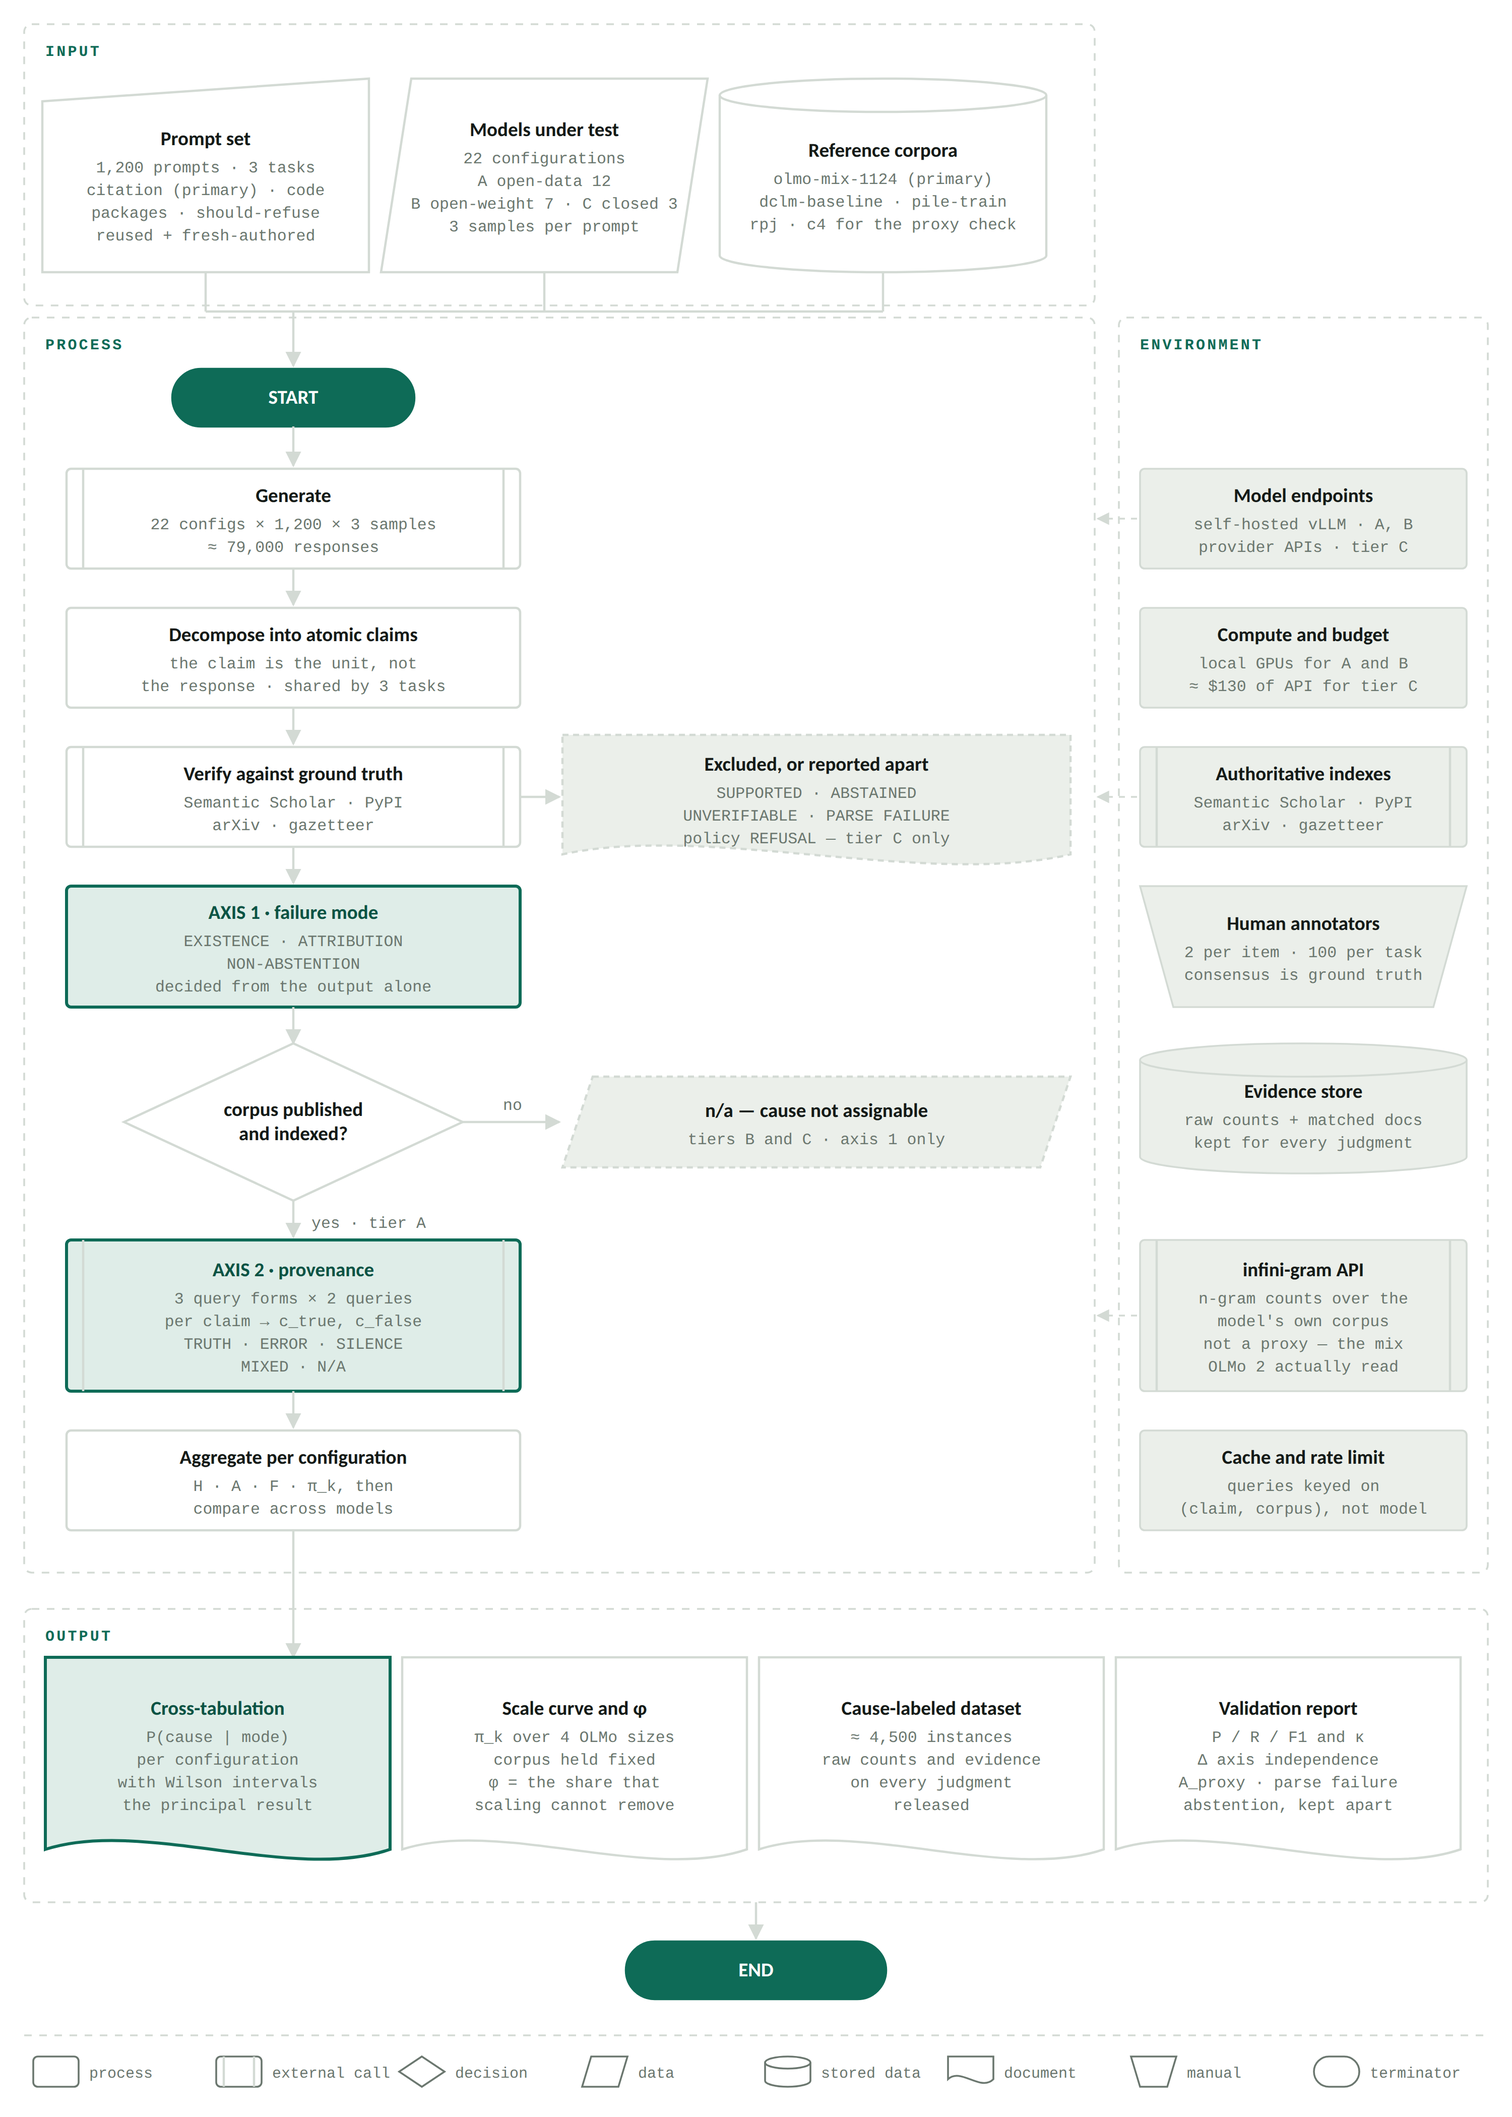
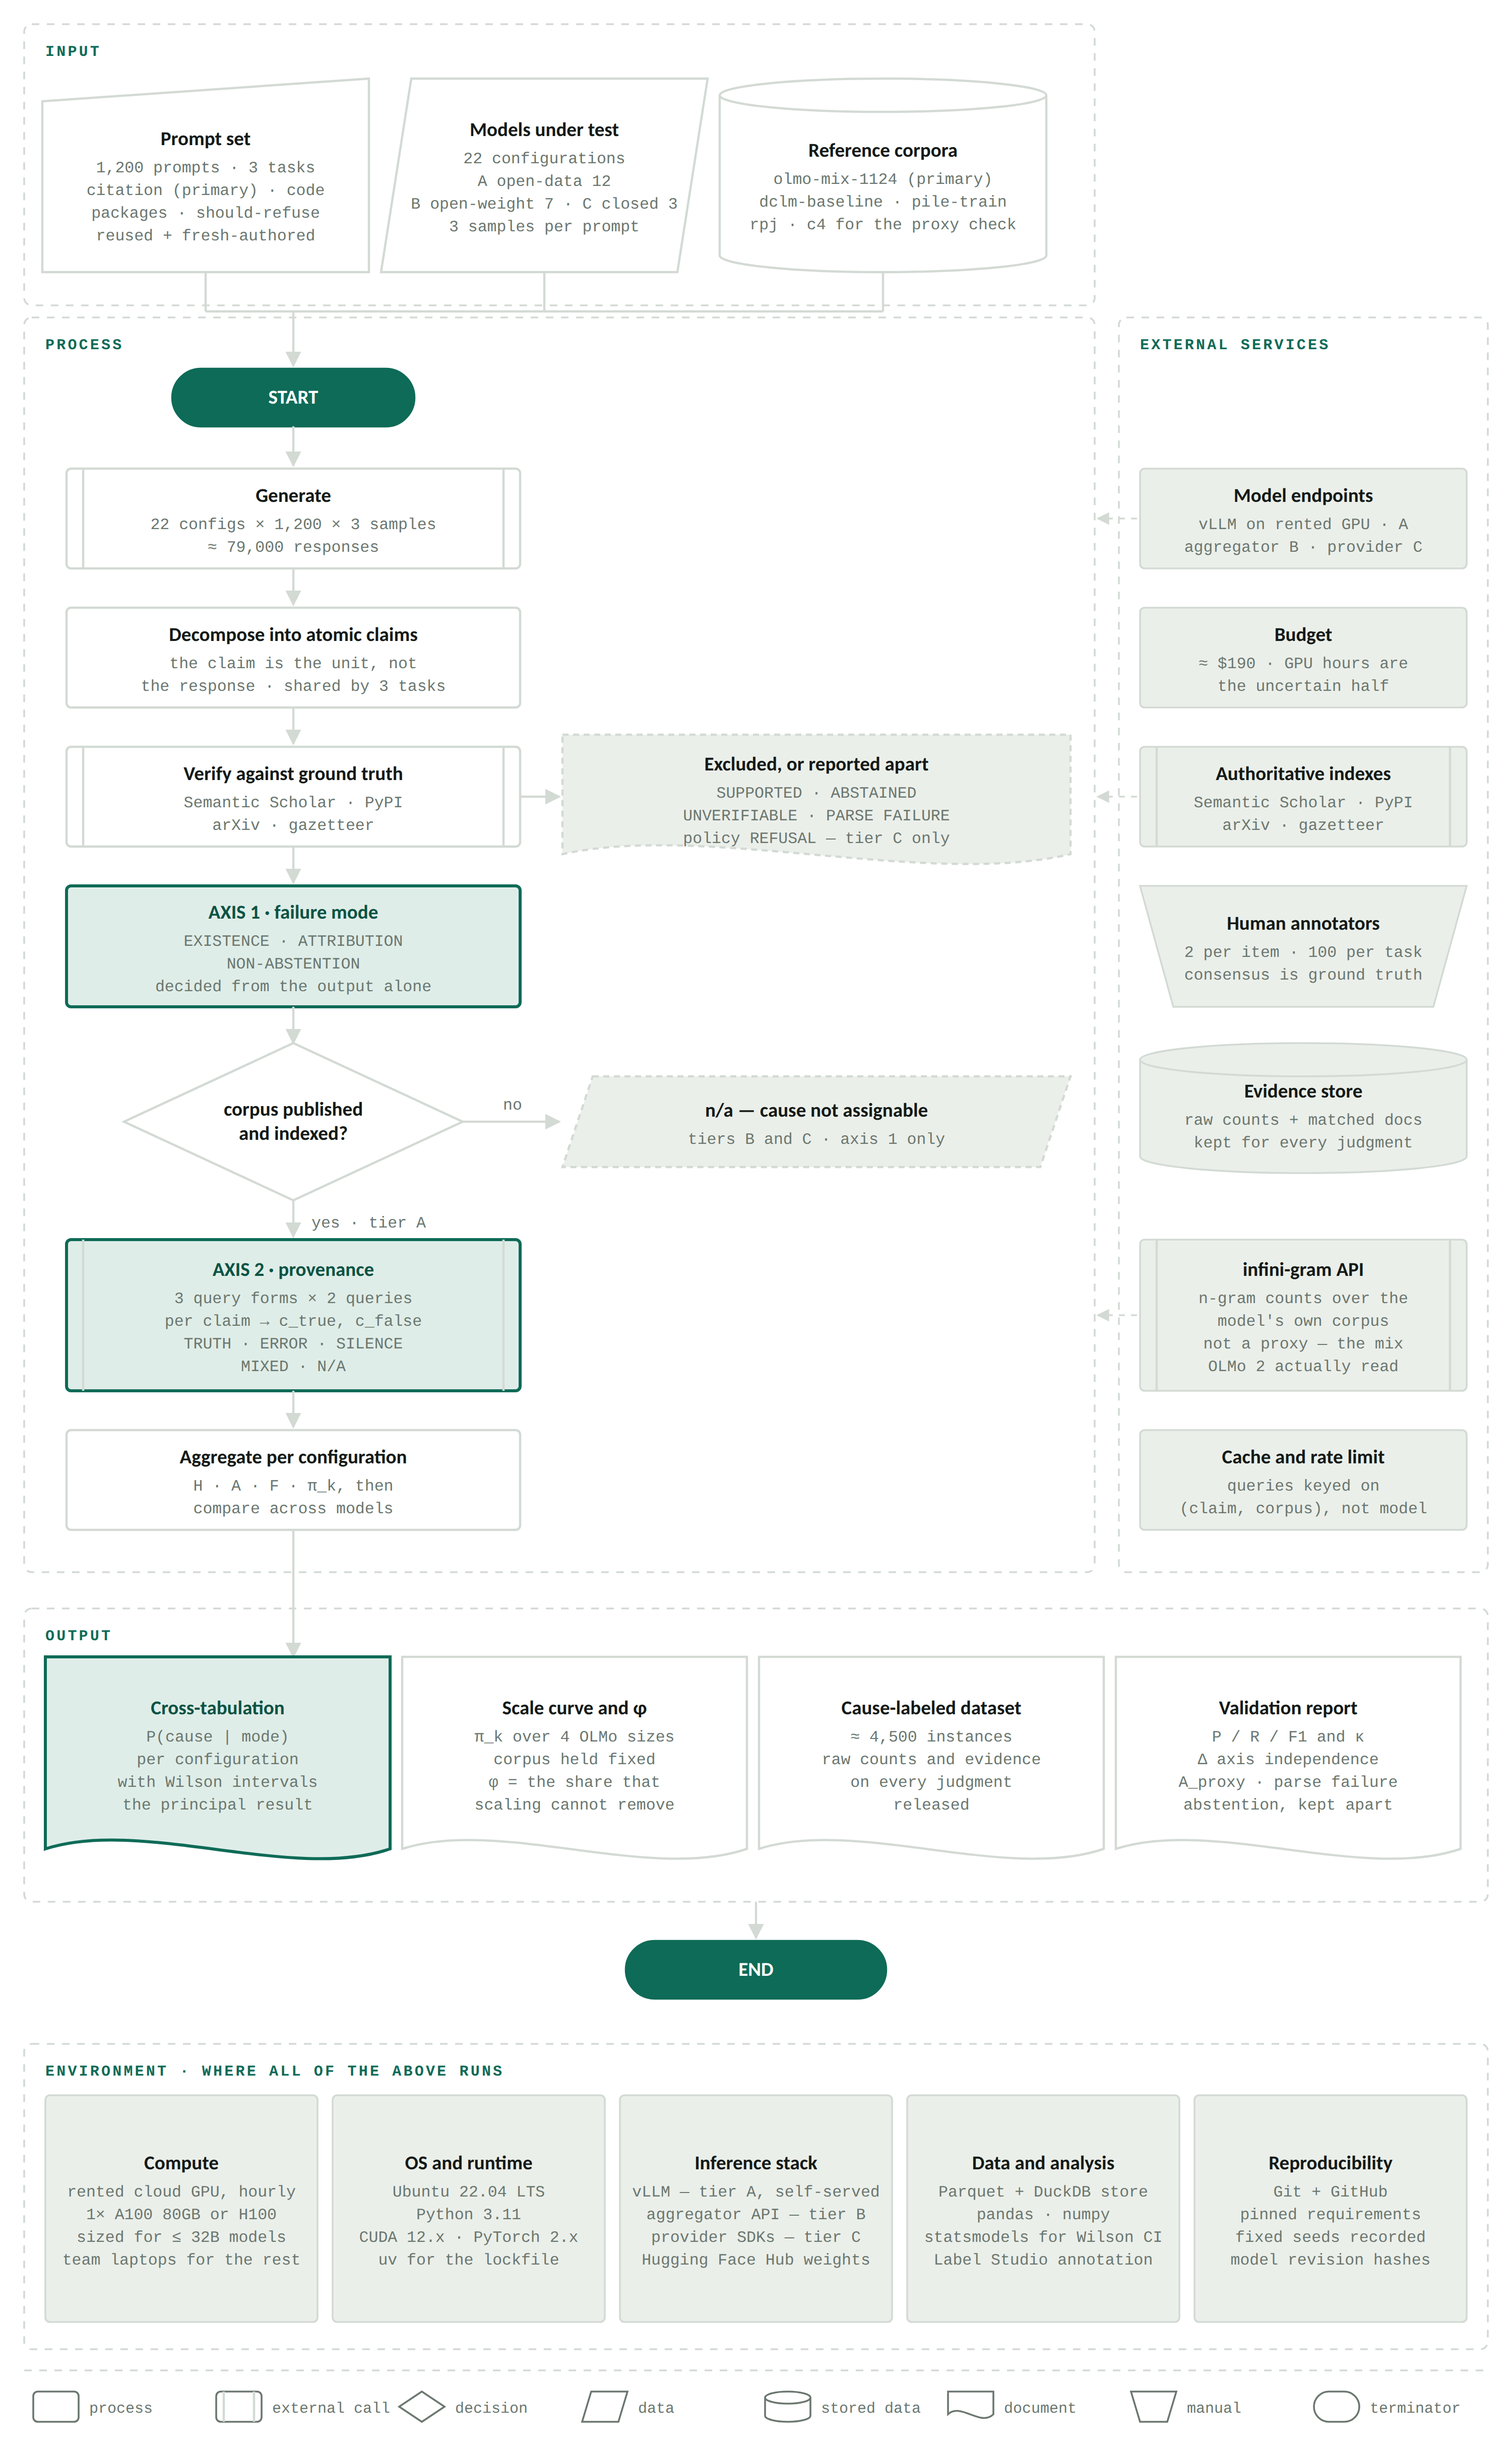
Update scope

diff --git a/index.html b/index.html
@@ -761,20 +761,42 @@
     </div>
     <p class="prose" style="font-size:0.86rem;color:var(--muted)">
       The last three rows are aggregator list prices standing in for tier B as a whole; per-model rates differ by a
-      few cents and are reconfirmed at sweep time. Tier A is self-hosted and does not appear here.
+      few cents and are reconfirmed at sweep time. Tier A does not appear here — it is served by us on a rented GPU
+      and is costed in hours instead, below.
     </p>
+
+    <h3 style="margin-top:1rem">What tier A costs, in GPU hours</h3>
+    <p class="prose">
+      Tier A tops out at 32B, so a single rented A100 80GB or H100 serves every one of the twelve configurations
+      through vLLM. Generation is roughly an hour for the small checkpoints and two to three for the 20–32B ones;
+      with weight downloads, restarts and the reruns any real project has, <strong>40 GPU-hours is the working
+      estimate at $1.50–2.00 an hour</strong>, plus a network volume to keep the weights between sessions.
+    </p>
+
+    <div class="redline">
+      <div class="mk">Renting by the hour changes how we work, not just what we pay</div>
+      <p>
+        An idle rented GPU bills exactly like a busy one, so the pipeline is built and debugged locally against a
+        1B checkpoint, the full prompt set is prepared offline, and the GPU is rented only to run a prepared batch
+        and released immediately after. <strong>The cost risk here is not the hourly rate but hours spent debugging
+        on a running meter</strong> — the discipline is to never open a rented instance without a batch ready to run.
+      </p>
+    </div>
 
     <div class="goal">
       <div class="mk">Budget</div>
       <p class="gline">
-        Around 130 US dollars for the entire generation sweep.
+        Around 190 US dollars, of which the GPU hours are the uncertain half.
       </p>
       <p class="gsub">
-        Tier C at flagship rates is roughly $70 for all three. Tier B, served through an aggregator, sits between
-        fifteen cents and a few dollars per model — call it $20 for the seven. Tier A is small enough to self-host,
-        or a few dollars each on a hosted endpoint. <strong>Cost is not the binding constraint; rate limits and the
-        attribution work are.</strong> If the budget needs halving, drop tier C to mid-range models — GPT-5.4,
-        Claude Sonnet 5 and Gemini 3 Flash come to about $31 together.
+        Tier C at flagship rates is roughly $70 for all three. Tier B through an aggregator sits between fifteen
+        cents and a few dollars per model — call it $20 for the seven. Tier A is 40 rented GPU-hours at $1.50–2.00,
+        so $60–80, plus about $20 of volume storage for the weights. The API side is a quoted price and will not
+        move; the GPU side is an estimate of our own efficiency and could double if we debug on a live instance.
+        <strong>Even doubled, cost is not the binding constraint — rate limits and the attribution work are.</strong>
+        If the budget needs cutting, tier C drops to mid-range models (GPT-5.4, Claude Sonnet 5, Gemini 3 Flash come
+        to about $31 together) and the 32B checkpoints go last, since they are the most expensive hours and the
+        scale curve already has three points without them.
       </p>
     </div>
 
@@ -1164,8 +1186,11 @@
     <p class="prose">
       Four bands. <strong>Input</strong> is what we bring: prompts, models, corpora. <strong>Process</strong> is the
       pipeline we build — one prompt enters, a doubly-labeled claim leaves, and the diamond is the only place the
-      model tiers diverge. <strong>Environment</strong> is everything the pipeline depends on but does not own, drawn
-      to the side because each item is a risk we do not control. <strong>Output</strong> is what the paper reports.
+      model tiers diverge. <strong>External services</strong>, down the right-hand side, are the things the pipeline
+      calls but does not own; every one of them is a dependency we cannot fix if it breaks, which is why they are
+      drawn apart rather than inline. <strong>Output</strong> is what the paper reports. The strip along the bottom
+      is the <strong>environment</strong> proper — the named stack the whole thing executes on, listed so the run is
+      reproducible from the figure alone.
     </p>
     <p class="prose" style="font-size:0.88rem;color:var(--muted)">
       Standard flowchart notation, so the shape carries meaning: rectangle for a process step, the barred rectangle
@@ -1175,7 +1200,7 @@
     </p>
 
     <div class="flowwrap">
-      <svg class="flow" viewBox="0 0 1000 1400" width="1000" height="1400" role="img"
+      <svg class="flow" viewBox="0 0 1000 1620" width="1000" height="1620" role="img"
            aria-label="Project framework flowchart: input, process, environment and output">
         <defs>
           <marker id="ah" viewBox="0 0 10 10" refX="9" refY="5" markerWidth="7" markerHeight="7" orient="auto">
@@ -1271,15 +1296,15 @@
         <text class="sub" x="194" y="1001" text-anchor="middle">compare across models</text>
         <line class="ln" x1="194" y1="1012" x2="194" y2="1096" marker-end="url(#ah)"/>
         <rect class="fr" x="740" y="210" width="244" height="830" rx="5"/>
-        <text class="fl" x="754" y="231">ENVIRONMENT</text>
+        <text class="fl" x="754" y="231">EXTERNAL SERVICES</text>
         <rect class="bxe" x="754" y="310" width="216" height="66" rx="3"/>
         <text class="ttl" x="862" y="332" text-anchor="middle">Model endpoints</text>
-        <text class="sub" x="862" y="350" text-anchor="middle">self-hosted vLLM · A, B</text>
-        <text class="sub" x="862" y="365" text-anchor="middle">provider APIs · tier C</text>
+        <text class="sub" x="862" y="350" text-anchor="middle">vLLM on rented GPU · A</text>
+        <text class="sub" x="862" y="365" text-anchor="middle">aggregator B · provider C</text>
         <rect class="bxe" x="754" y="402" width="216" height="66" rx="3"/>
-        <text class="ttl" x="862" y="424" text-anchor="middle">Compute and budget</text>
-        <text class="sub" x="862" y="442" text-anchor="middle">local GPUs for A and B</text>
-        <text class="sub" x="862" y="457" text-anchor="middle">≈ $130 of API for tier C</text>
+        <text class="ttl" x="862" y="424" text-anchor="middle">Budget</text>
+        <text class="sub" x="862" y="442" text-anchor="middle">≈ $190 · GPU hours are</text>
+        <text class="sub" x="862" y="457" text-anchor="middle">the uncertain half</text>
         <rect class="bxe" x="754" y="494" width="216" height="66" rx="3"/>
         <line class="bar" x1="765" y1="494" x2="765" y2="560"/>
         <line class="bar" x1="959" y1="494" x2="959" y2="560"/>
@@ -1336,26 +1361,58 @@
         <line class="ln" x1="500" y1="1258" x2="500" y2="1282" marker-end="url(#ah)"/>
         <rect class="bxt" x="414" y="1284" width="172" height="38" rx="19.0"/>
         <text class="ttl" x="500" y="1307" text-anchor="middle">END</text>
-        <line class="fr" x1="16" y1="1346" x2="984" y2="1346"/>
-        <rect class="lg" x="22" y="1360" width="30" height="20" rx="3"/>
-        <text class="lgt" x="59" y="1374">process</text>
-        <rect class="lg" x="143" y="1360" width="30" height="20" rx="3"/>
-        <line class="bar" x1="148" y1="1360" x2="148" y2="1380"/>
-        <line class="bar" x1="168" y1="1360" x2="168" y2="1380"/>
-        <text class="lgt" x="180" y="1374">external call</text>
-        <path class="lg" d="M279.0,1360.0 L294.0,1370.0 L279.0,1380.0 L264.0,1370.0 Z"/>
-        <text class="lgt" x="301" y="1374">decision</text>
-        <path class="lg" d="M391,1360 L415,1360 L409,1380 L385,1380 Z"/>
-        <text class="lgt" x="422" y="1374">data</text>
-        <path class="lg" d="M506,1364 A15.0,4 0 0 1 536,1364 L536,1376 A15.0,4 0 0 1 506,1376 Z"/>
-        <path class="lg" style="fill:none" d="M506,1364 A15.0,4 0 0 0 536,1364"/>
-        <text class="lgt" x="543" y="1374">stored data</text>
-        <path class="lg" d="M627,1360 L657,1360 L657,1375 C648.6,1383.5 635.4,1367.0 627,1375 Z"/>
-        <text class="lgt" x="664" y="1374">document</text>
-        <path class="lg" d="M748,1360 L778,1360 L772,1380 L754,1380 Z"/>
-        <text class="lgt" x="785" y="1374">manual</text>
-        <rect class="lg" x="869" y="1360" width="30" height="20" rx="10.0"/>
-        <text class="lgt" x="906" y="1374">terminator</text>
+        <rect class="fr" x="16" y="1352" width="968" height="202" rx="5"/>
+        <text class="fl" x="30" y="1373">ENVIRONMENT · WHERE ALL OF THE ABOVE RUNS</text>
+        <rect class="bxe" x="30" y="1386" width="180" height="150" rx="3"/>
+        <text class="ttl" x="120" y="1435" text-anchor="middle">Compute</text>
+        <text class="sub" x="120" y="1453" text-anchor="middle">rented cloud GPU, hourly</text>
+        <text class="sub" x="120" y="1468" text-anchor="middle">1× A100 80GB or H100</text>
+        <text class="sub" x="120" y="1483" text-anchor="middle">sized for ≤ 32B models</text>
+        <text class="sub" x="120" y="1498" text-anchor="middle">team laptops for the rest</text>
+        <rect class="bxe" x="220" y="1386" width="180" height="150" rx="3"/>
+        <text class="ttl" x="310" y="1435" text-anchor="middle">OS and runtime</text>
+        <text class="sub" x="310" y="1453" text-anchor="middle">Ubuntu 22.04 LTS</text>
+        <text class="sub" x="310" y="1468" text-anchor="middle">Python 3.11</text>
+        <text class="sub" x="310" y="1483" text-anchor="middle">CUDA 12.x · PyTorch 2.x</text>
+        <text class="sub" x="310" y="1498" text-anchor="middle">uv for the lockfile</text>
+        <rect class="bxe" x="410" y="1386" width="180" height="150" rx="3"/>
+        <text class="ttl" x="500" y="1435" text-anchor="middle">Inference stack</text>
+        <text class="sub" x="500" y="1453" text-anchor="middle">vLLM — tier A, self-served</text>
+        <text class="sub" x="500" y="1468" text-anchor="middle">aggregator API — tier B</text>
+        <text class="sub" x="500" y="1483" text-anchor="middle">provider SDKs — tier C</text>
+        <text class="sub" x="500" y="1498" text-anchor="middle">Hugging Face Hub weights</text>
+        <rect class="bxe" x="600" y="1386" width="180" height="150" rx="3"/>
+        <text class="ttl" x="690" y="1435" text-anchor="middle">Data and analysis</text>
+        <text class="sub" x="690" y="1453" text-anchor="middle">Parquet + DuckDB store</text>
+        <text class="sub" x="690" y="1468" text-anchor="middle">pandas · numpy</text>
+        <text class="sub" x="690" y="1483" text-anchor="middle">statsmodels for Wilson CI</text>
+        <text class="sub" x="690" y="1498" text-anchor="middle">Label Studio annotation</text>
+        <rect class="bxe" x="790" y="1386" width="180" height="150" rx="3"/>
+        <text class="ttl" x="880" y="1435" text-anchor="middle">Reproducibility</text>
+        <text class="sub" x="880" y="1453" text-anchor="middle">Git + GitHub</text>
+        <text class="sub" x="880" y="1468" text-anchor="middle">pinned requirements</text>
+        <text class="sub" x="880" y="1483" text-anchor="middle">fixed seeds recorded</text>
+        <text class="sub" x="880" y="1498" text-anchor="middle">model revision hashes</text>
+        <line class="fr" x1="16" y1="1568" x2="984" y2="1568"/>
+        <rect class="lg" x="22" y="1582" width="30" height="20" rx="3"/>
+        <text class="lgt" x="59" y="1596">process</text>
+        <rect class="lg" x="143" y="1582" width="30" height="20" rx="3"/>
+        <line class="bar" x1="148" y1="1582" x2="148" y2="1602"/>
+        <line class="bar" x1="168" y1="1582" x2="168" y2="1602"/>
+        <text class="lgt" x="180" y="1596">external call</text>
+        <path class="lg" d="M279.0,1582.0 L294.0,1592.0 L279.0,1602.0 L264.0,1592.0 Z"/>
+        <text class="lgt" x="301" y="1596">decision</text>
+        <path class="lg" d="M391,1582 L415,1582 L409,1602 L385,1602 Z"/>
+        <text class="lgt" x="422" y="1596">data</text>
+        <path class="lg" d="M506,1586 A15.0,4 0 0 1 536,1586 L536,1598 A15.0,4 0 0 1 506,1598 Z"/>
+        <path class="lg" style="fill:none" d="M506,1586 A15.0,4 0 0 0 536,1586"/>
+        <text class="lgt" x="543" y="1596">stored data</text>
+        <path class="lg" d="M627,1582 L657,1582 L657,1597 C648.6,1605.5 635.4,1589.0 627,1597 Z"/>
+        <text class="lgt" x="664" y="1596">document</text>
+        <path class="lg" d="M748,1582 L778,1582 L772,1602 L754,1602 Z"/>
+        <text class="lgt" x="785" y="1596">manual</text>
+        <rect class="lg" x="869" y="1582" width="30" height="20" rx="10.0"/>
+        <text class="lgt" x="906" y="1596">terminator</text>
       </svg>
     </div>
 
